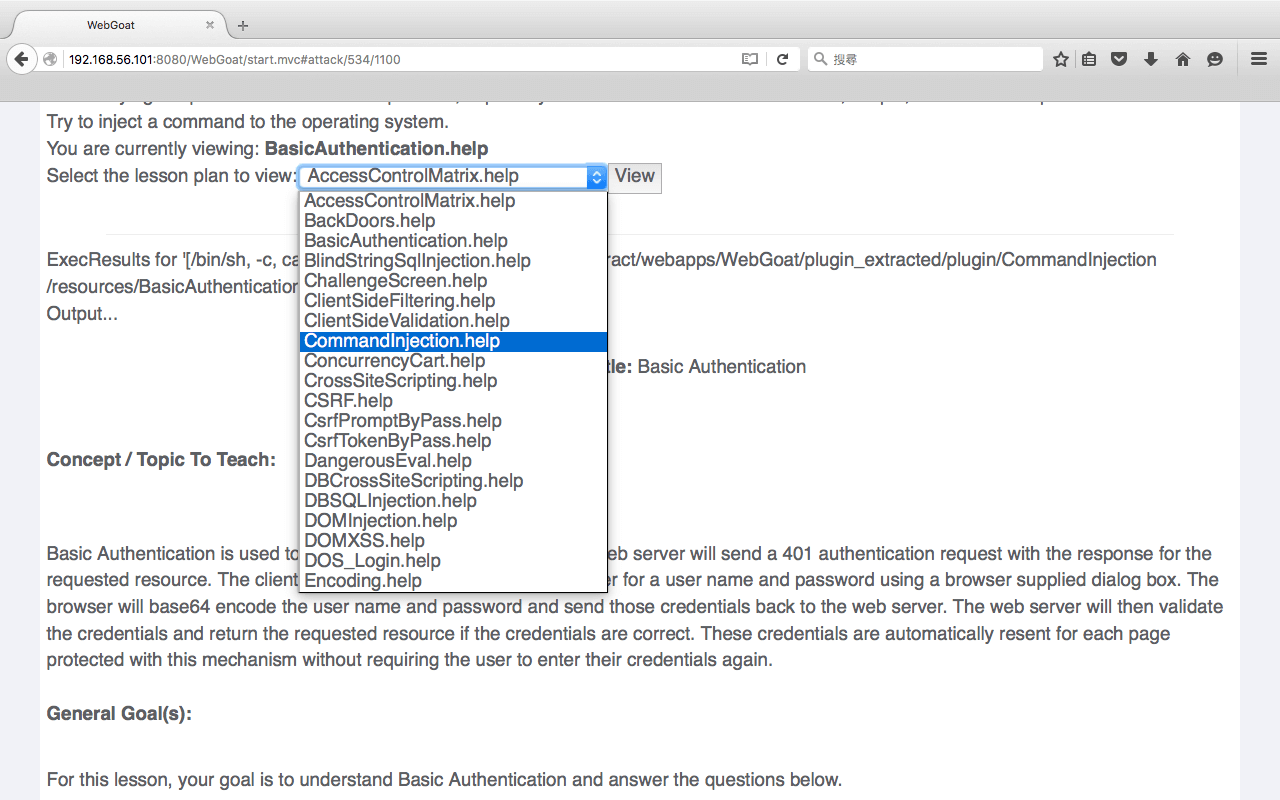
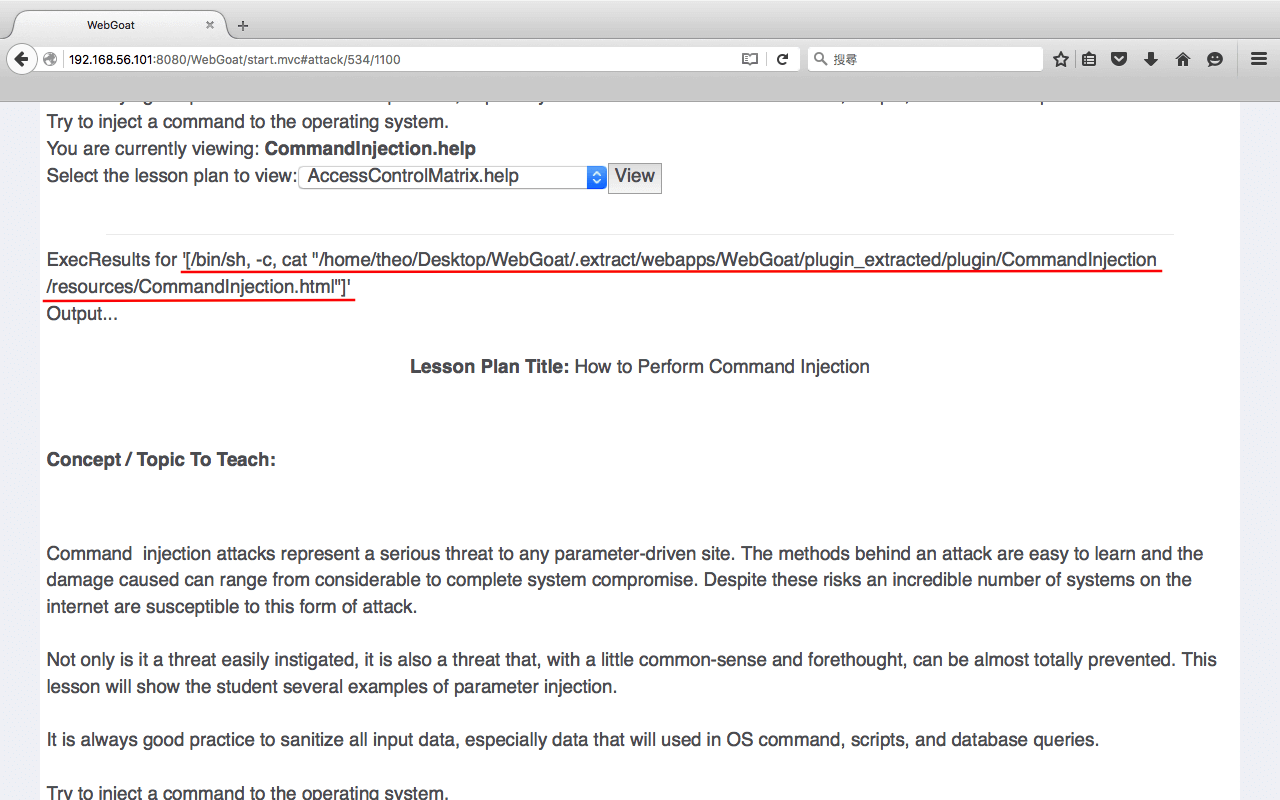
Add Command Injection Solution

Changed region(s): [[0.0312, 0.1562, 0.9688, 0.9375], [0.0312, 0.9688, 0.6562, 1.0], [0.0312, 0.375, 0.0938, 0.4062]]

diff --git a/Injection Flaws/Command Injection.md b/Injection Flaws/Command Injection.md
@@ -3,3 +3,42 @@ Command Injection
 這是有關Injection部分的第一關，題目的要求很簡單，提供一個HTML select的form，要我們想辦法把command注入伺服器的系統。
 
 ![Command Injection-01](../Screenshot/InjectionFlaws/CommandIjection/CommandIjection-01.png)
+
+既然這樣就先看看選項裡有什麼東西吧，滿滿.help結尾的選項，其中還有一項和題目同名的選項就選他吧！（並不是非得選CommandInjection.help，其他選項也行。）
+
+![Command Injection-02](../Screenshot/InjectionFlaws/CommandIjection/CommandIjection-02.png)
+
+輸出的結果是有關選項的說明，其中注意到紅底線的部分是呼叫.html檔案的指令，就是我們要著手的部分。
+
+![Command Injection-03](../Screenshot/InjectionFlaws/CommandIjection/CommandIjection-03.png)
+
+接下來我使用的是WebScarab，啟動監聽以後再回到WebGoat點選一次表單讓WebScarab攔截request。
+
+![Command Injection-04](../Screenshot/InjectionFlaws/CommandIjection/CommandIjection-04.png)
+
+若成功攔截到request會跳出一個視窗
+
+![Command Injection-05](../Screenshot/InjectionFlaws/CommandIjection/CommandIjection-05.png)
+
+可以點選Transform來把GET轉換成POST。
+
+![Command Injection-06](../Screenshot/InjectionFlaws/CommandIjection/CommandIjection-06.png)
+
+轉成POST以後可以很清楚地看見傳送的參數，其中HelpFile的變數存了剛剛選擇的選項。
+
+![Command Injection-07](../Screenshot/InjectionFlaws/CommandIjection/CommandIjection-07.png)
+
+回去比對一下剛剛呼叫.html檔案的指令，當我們選擇了AccessControlMatrix.help的選項時，整串呼叫指令是用「'」單引號包著，其中檔案路徑是用「"」雙引號，那我們就可以在WebScarab中嘗試修改HelpFile的值來進行injection :`AccessControlMatrix.help" & ifconfig"`
+
+![Command Injection-08](../Screenshot/InjectionFlaws/CommandIjection/CommandIjection-08.png)
+
+第一個「"」雙引號用來結束前面的檔案路徑，第二個「"」用來搭配系統預設結尾的「"」，變成「""」兩個雙引號內沒有包含任何東西，讓中間的「& ifconfig」成為獨立的command。
+
+最後把修改過的request轉回GET以後在點選Accept changes送出這個request。
+
+![Command Injection-09](../Screenshot/InjectionFlaws/CommandIjection/CommandIjection-09.png)
+
+恭喜通過了Injection Flaws的第一關！
+可以看見ExecResults的部分就是command injection的重點，ifconfig在下方的確也顯示出了伺服器的資料。
+
+![Command Injection-10](../Screenshot/InjectionFlaws/CommandIjection/CommandIjection-10.png)
